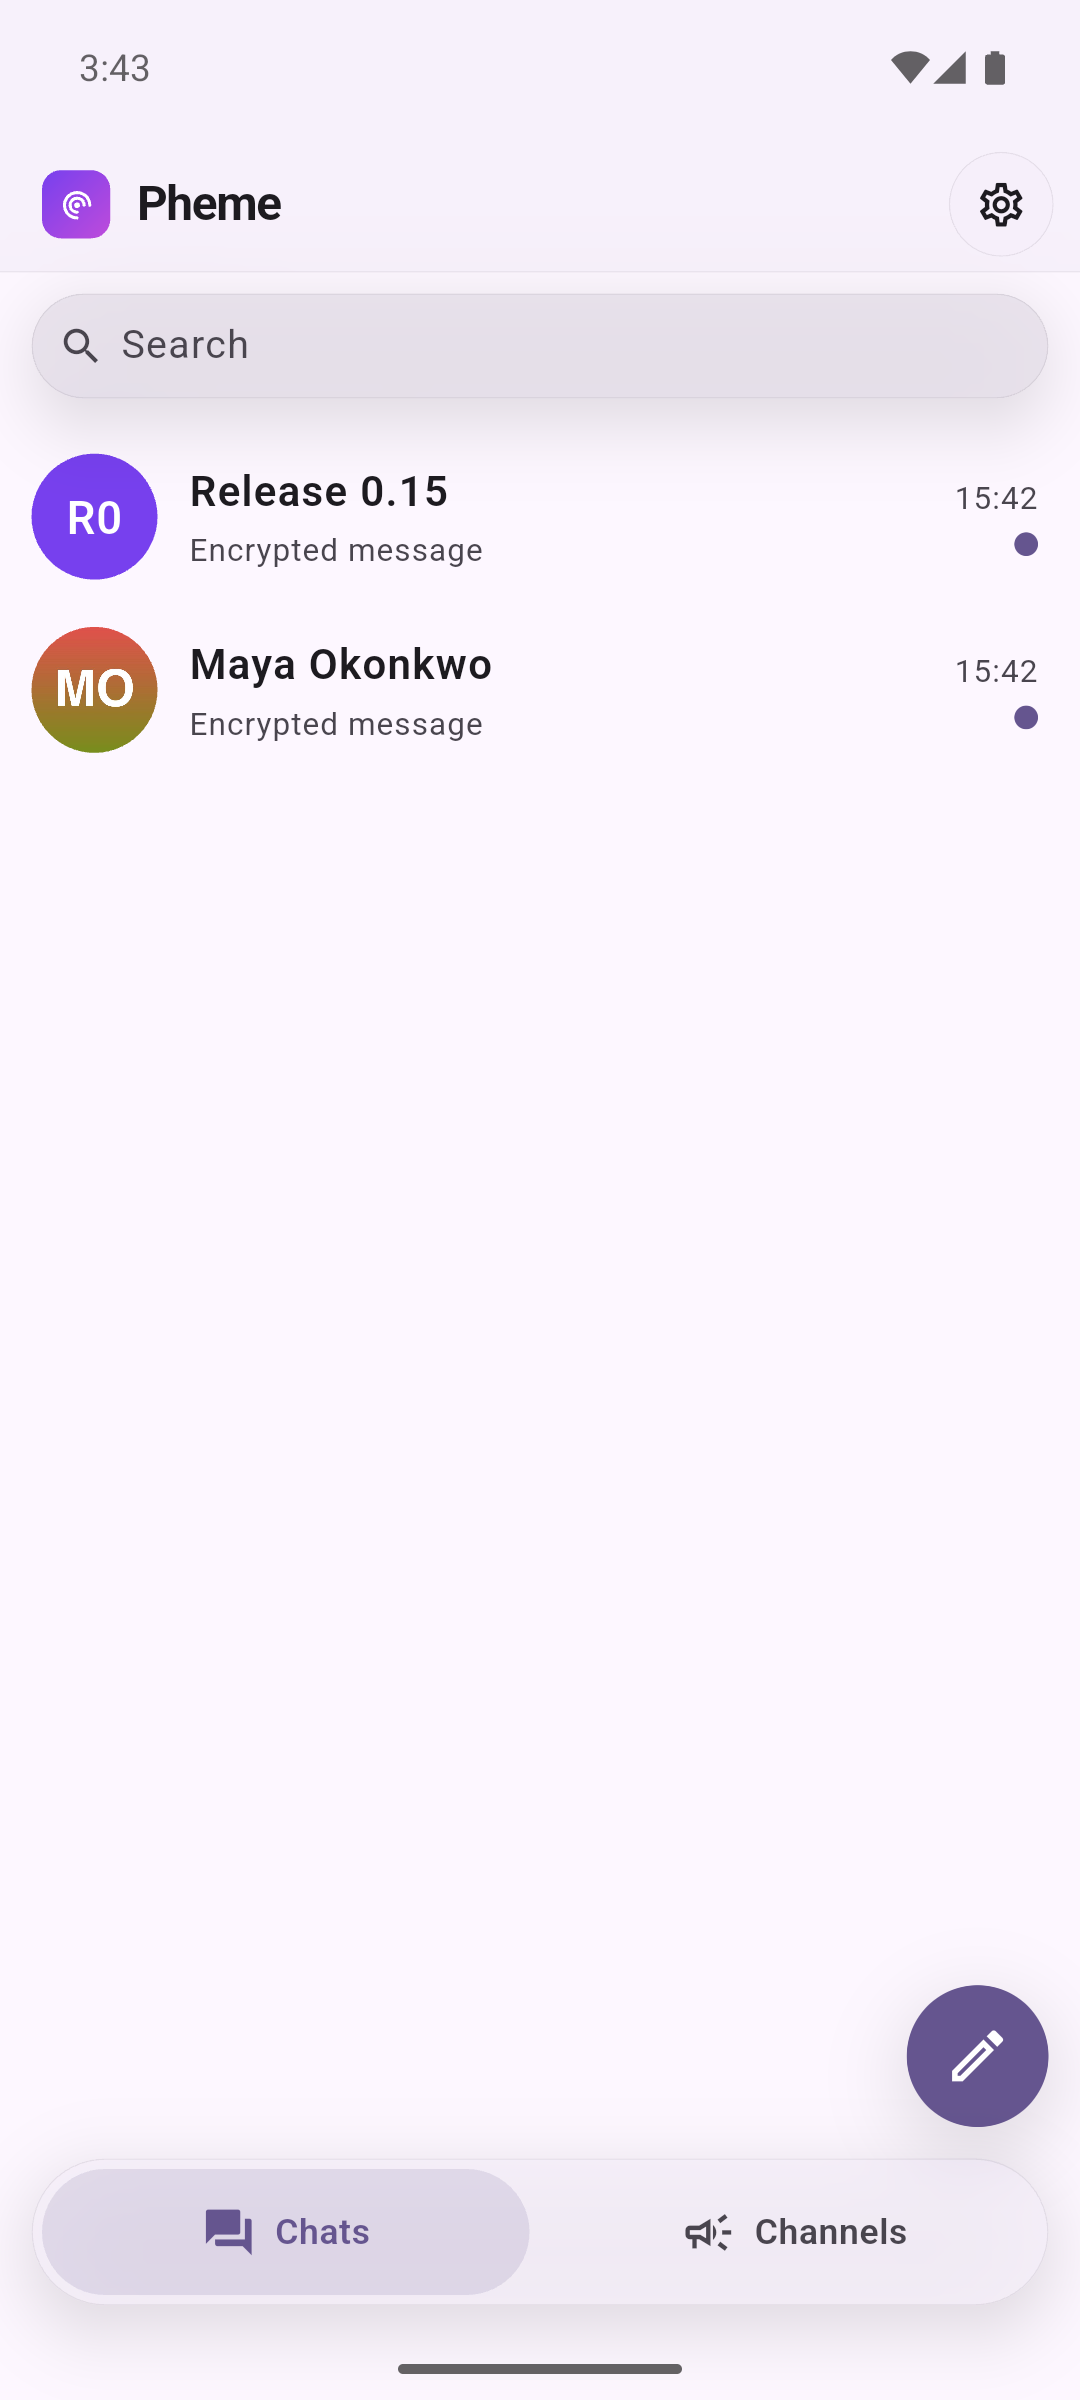
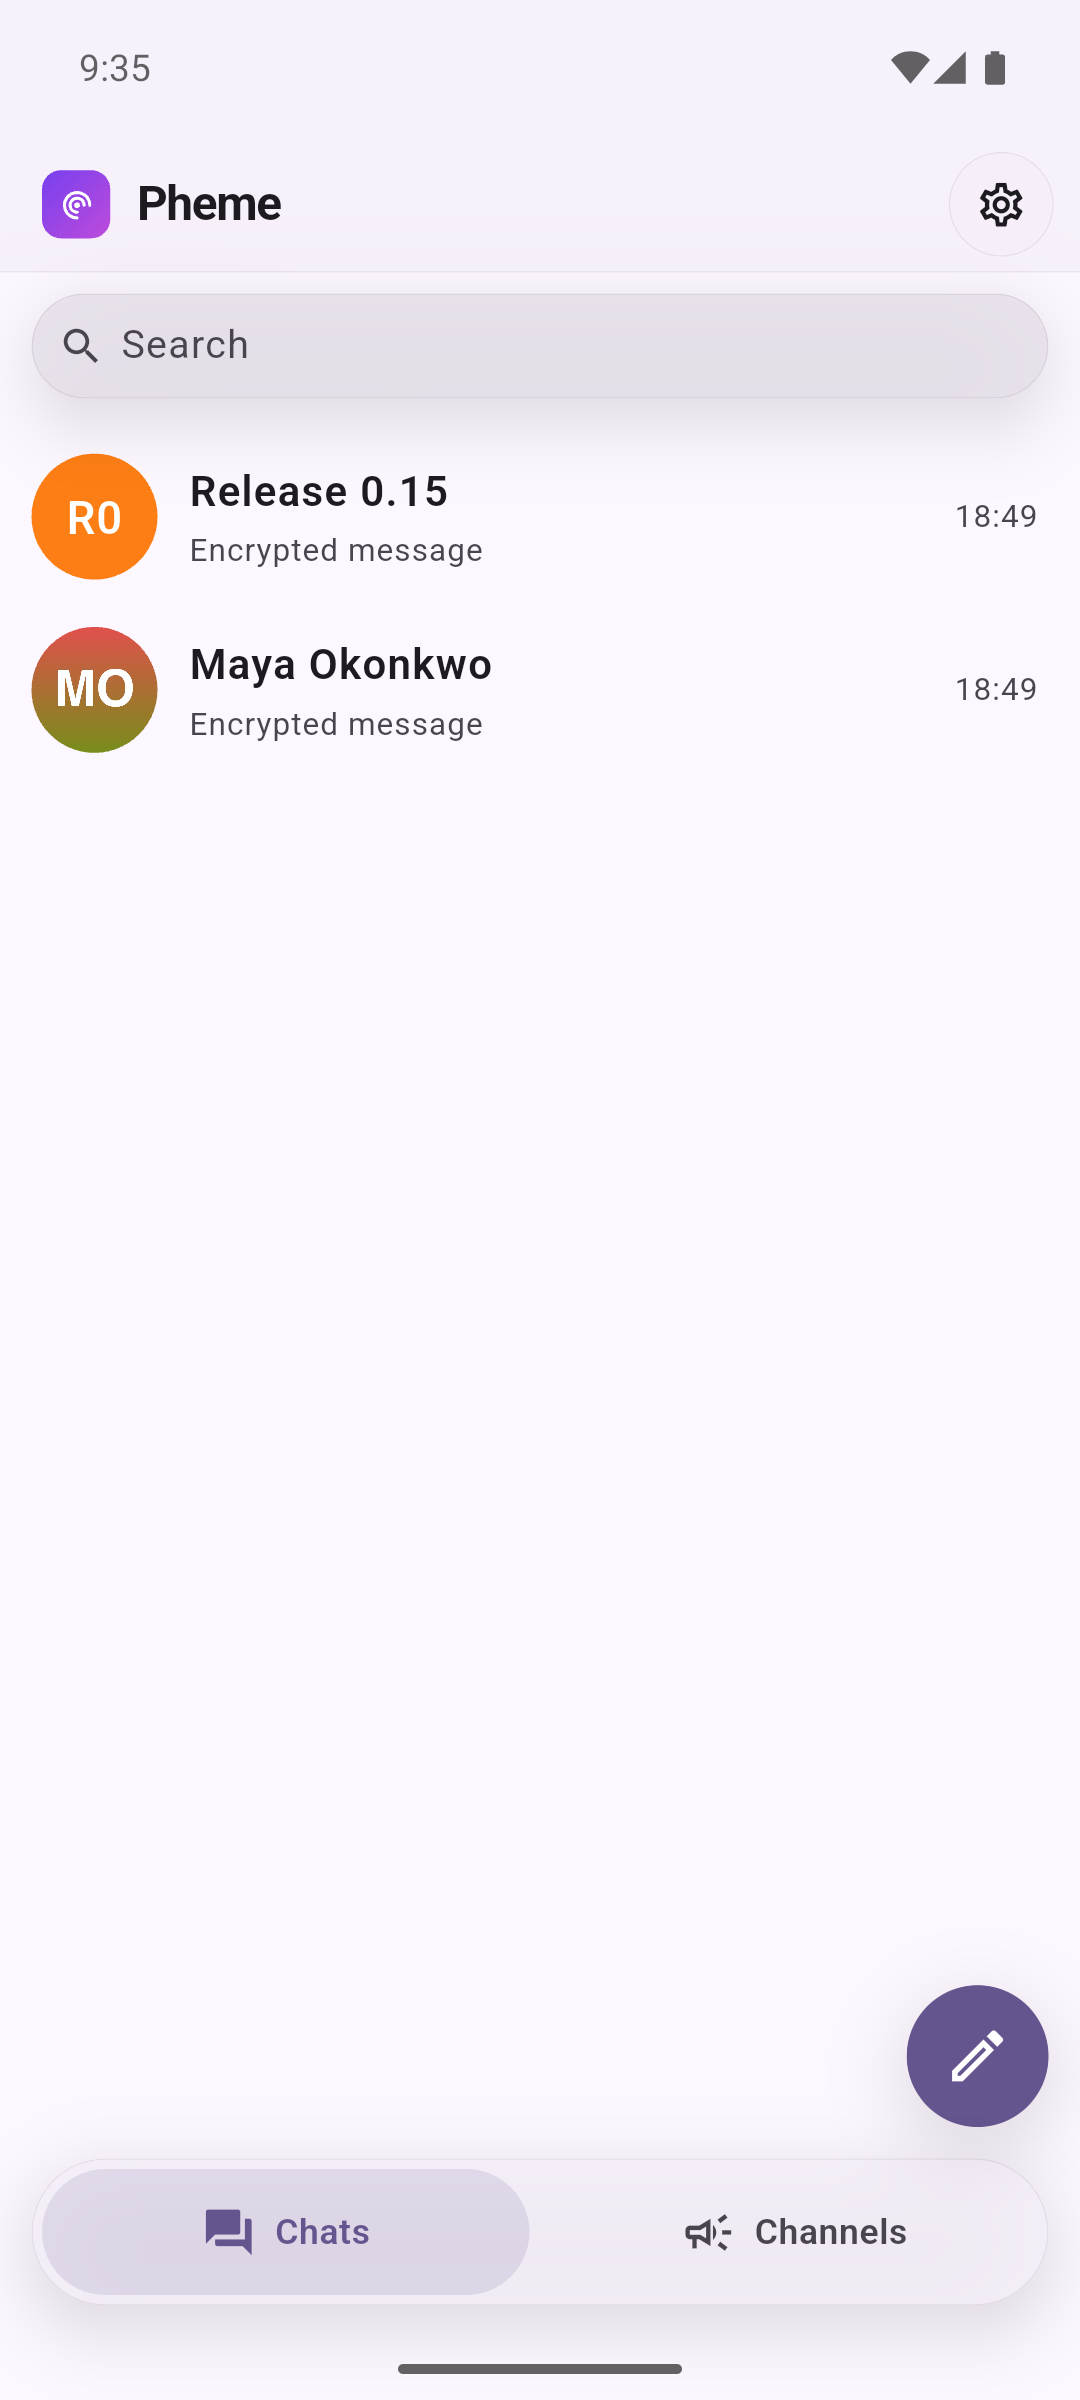
feat(market): Russian screenshots, and the two dialogs that were blocking them
Both Play sets are complete now — chats, channels, a channel and settings, in
English and Russian, four matching frames each.

Three things had to be fixed, and all three were failing silently.

FORCING THE LANGUAGE. Changing the simulator's locale is the wrong lever: it
needs a reboot per language and the app overrides it anyway. The app keeps its
own preference in secure storage under `pheme.locale`, so the capture writes
that before calling app.main() and takes SHOT_LOCALE as a dart-define. One
build, both languages, nothing reboots.

THE RESTORE DIALOG. A fresh device with a backup on the server is offered a
restore, and the dialog sat on top of every Russian frame. Tapping it away was
unreliable. The script now deletes the account's server-side key backup first:
RecoveryGate only prompts when mls.session() raises NeedsRestoreException, which
needs a backup to restore from.

THE NOTIFICATION PROMPT. Granted outright on Android — in a retry loop, because
the grant only takes once flutter drive has installed the package.

Also fixes the privacy manifest reference from the previous commit. It was added
with a path relative to the Runner group, which already has path "Runner", so
the project looked for Runner/Runner/PrivacyInfo.xcprivacy and the iOS build
failed outright. Re-added group-relative.

And teaches tools/shots.sh to notice a stale build. flutter drive does not
always see that the integration_test target changed; when it does not it
[…]

diff --git a/mobile/integration_test/screenshots_test.dart b/mobile/integration_test/screenshots_test.dart
@@ -14,6 +14,7 @@
 // Runs against the seeded instance, so the app it photographs has other
 // people's conversations in it.
 import 'package:flutter/material.dart';
+import 'package:flutter_secure_storage/flutter_secure_storage.dart';
 import 'package:flutter_test/flutter_test.dart';
 import 'package:integration_test/integration_test.dart';
 
@@ -22,6 +23,10 @@ import 'package:pheme_mobile/main.dart' as app;
 const _email = String.fromEnvironment('SHOT_EMAIL', defaultValue: 'priya@pheme.test');
 const _password = String.fromEnvironment('SHOT_PASSWORD', defaultValue: 'orchard-lantern-97');
 const _server = String.fromEnvironment('PHEME_API', defaultValue: 'http://localhost:8099');
+
+/// Which language to photograph the app in: 'en', 'ru', or empty for whatever
+/// the device is set to.
+const _locale = String.fromEnvironment('SHOT_LOCALE');
 
 /// pumpAndSettle gives up on a screen with a perpetual animation, and this app
 /// has several (spinners, the live indicator). Pumping for a fixed spell is the
@@ -40,6 +45,20 @@ Future<void> shot(WidgetTester tester, String name) async {
   await rest(tester, seconds: 6);
 }
 
+/// The first of these labels that is actually on screen.
+///
+/// The driver has to work in both languages: the store package needs an English
+/// set and a Russian one, and the simulator's language decides which strings the
+/// app renders. Matching only the English ones silently skipped every step of
+/// the Russian run.
+Finder anyText(WidgetTester tester, List<String> labels) {
+  for (final l in labels) {
+    final f = find.text(l);
+    if (tester.any(f)) return f;
+  }
+  return find.text(labels.first);
+}
+
 Future<void> tapIfPresent(WidgetTester tester, Finder f, {int settle = 4}) async {
   if (!tester.any(f)) return;
   await tester.tap(f.first, warnIfMissed: false);
@@ -50,6 +69,16 @@ void main() {
   IntegrationTestWidgetsFlutterBinding.ensureInitialized();
 
   testWidgets('drive the app for screenshots', (tester) async {
+    // Set the app's own language preference before it boots, rather than
+    // changing the simulator's language. The app reads this key at startup and
+    // it outranks the device locale, so one build photographs both languages
+    // without rebooting anything.
+    if (_locale.isNotEmpty) {
+      const storage = FlutterSecureStorage();
+      await storage.write(key: 'pheme.locale', value: _locale);
+      debugPrint('SHOT_LOCALE wrote=$_locale readback=${await storage.read(key: 'pheme.locale')}');
+    }
+
     app.main();
     await rest(tester, seconds: 8);
 
@@ -60,7 +89,7 @@ void main() {
     // The app keeps a session, so a second run of this file starts already
     // signed in. Both states are legitimate; only the first has a form to fill.
     final fields = find.byType(EditableText);
-    final signIn = find.text('Sign in');
+    final signIn = anyText(tester, const ['Sign in', 'Войти']);
     if (tester.any(fields) && tester.any(signIn)) {
       await shot(tester, '01-login');
 
@@ -80,10 +109,20 @@ void main() {
     // A device with no key store is offered a restore. This one is genuinely new,
     // so it starts fresh — and because it does that BEFORE the conversations are
     // seeded, it is a member of them from the first epoch and can read them.
-    final startFresh = find.text('Start fresh on this device');
-    if (tester.any(startFresh)) {
-      await tester.tap(startFresh.last, warnIfMissed: false);
-      await rest(tester, seconds: 8);
+    // The dialog should not appear at all: tools/shots.sh deletes the user's
+    // server-side key backup first, and RecoveryGate only prompts when
+    // mls.session() throws NeedsRestoreException, which needs a backup to
+    // restore from. This stays as a fallback, because a dialog nobody dismissed
+    // is a capture full of screenshots of a dialog.
+    const skipLabels = ['Start fresh on this device', 'Начать заново на этом устройстве'];
+    for (var attempt = 0; attempt < 15; attempt++) {
+      final skip = anyText(tester, skipLabels);
+      if (tester.any(skip)) {
+        await tester.tap(skip.last, warnIfMissed: false);
+        await rest(tester, seconds: 8);
+        break;
+      }
+      await rest(tester, seconds: 2);
     }
     // Hold here while the host seeds the conversations.
     //
@@ -96,12 +135,31 @@ void main() {
     debugPrint('SHOT:SEEDNOW');
     await rest(tester, seconds: 75);
 
+    // A device with no backup is asked to write its recovery code down before it
+    // will get out of the way. Tick the box, press the button.
+    for (var attempt = 0; attempt < 12; attempt++) {
+      final confirm = anyText(tester,
+          const ['I have saved my recovery code', 'Я сохранил код восстановления']);
+      if (!tester.any(confirm)) {
+        await rest(tester, seconds: 2);
+        continue;
+      }
+      await tester.tap(confirm.last, warnIfMissed: false);
+      await rest(tester, seconds: 2);
+      final done = anyText(tester, const ['Done', 'Готово']);
+      if (tester.any(done)) {
+        await tester.tap(done.last, warnIfMissed: false);
+      }
+      await rest(tester, seconds: 4);
+      break;
+    }
+
     await shot(tester, '02-chats');
 
     // --- the chat list --------------------------------------------------------
     // The app may open on either tab, so ask for Chats explicitly rather than
     // photographing whichever one it happened to restore.
-    final chatsTab = find.text('Chats');
+    final chatsTab = anyText(tester, const ['Chats', 'Чаты']);
     if (tester.any(chatsTab)) {
       await tester.tap(chatsTab.last, warnIfMissed: false);
       await rest(tester, seconds: 5);
@@ -125,7 +183,7 @@ void main() {
     }
 
     // --- channels -------------------------------------------------------------
-    final channelsTab = find.text('Channels');
+    final channelsTab = anyText(tester, const ['Channels', 'Каналы']);
     if (tester.any(channelsTab)) {
       await tester.tap(channelsTab.last, warnIfMissed: false);
       await rest(tester, seconds: 5);

diff --git a/mobile/market/screenshots.md b/mobile/market/screenshots.md
@@ -6,26 +6,48 @@
 |---|---|
 | App Store iPhone 6.9" (1320×2868) EN | 3 frames — chats, channels, a channel |
 | App Store iPhone 6.5" (1284×2778) EN | the same three, resampled |
-| App Store iPhone 6.9"/6.5" RU | **missing** — see below |
+| App Store iPhone RU | **missing** — one manual tap away, see below |
 | App Store iPad 13" (2064×2752) | **missing** — no capture run yet |
-| Play phone EN | 3 frames — chats, a channel, settings |
-| Play phone RU | **missing** |
+| Play phone EN | 4 frames — chats, channels, a channel, settings |
+| Play phone RU | 4 frames, the same screens |
 | Play tablet | **missing** (optional unless you declare tablet support) |
 
 Three frames per slot is above the App Store's minimum of one and below the
 maximum of ten. More would sell better; these are honest.
 
-## Why the Russian set is missing
+## Forcing the language
 
-The capture drives the real app, and on a Russian device the app signs in, then
-shows the "Восстановить чаты" dialog — a fresh install has no key store, so it
-offers to restore from a backup. The driver taps "Начать заново на этом
-устройстве" to dismiss it. In English that works. In Russian the tap does not
-land, and every frame in the run photographed the dialog.
+Do not change the simulator's or emulator's language. The app keeps its own
+preference in secure storage under `pheme.locale`, and that outranks the device
+locale — so the capture writes it before calling `app.main()`:
 
-It is not a translation problem: the driver looks for both languages and finds
-the button. Something about the tap misses it on that build. Worth ten minutes
-with a debugger rather than another blind re-run.
+```dart
+await const FlutterSecureStorage().write(key: 'pheme.locale', value: 'ru');
+```
+
+Pass `SHOT_LOCALE=ru` (or `en`) to `tools/shots.sh` and it threads through as a
+dart-define. One build photographs both languages, and nothing has to reboot.
+
+## Two dialogs that get in the way
+
+**"Restore your chats."** A fresh device with a backup waiting on the server is
+offered a restore, and the dialog sits on top of every screenshot. Dismissing it
+by tapping is unreliable. `tools/shots.sh` deletes the account's server-side key
+backup before the run instead: `RecoveryGate` only prompts when `mls.session()`
+raises `NeedsRestoreException`, which needs a backup to restore from, so with
+none there is no dialog to dismiss.
+
+**Notification permission.** On Android the script grants
+`POST_NOTIFICATIONS` outright — in a retry loop, because the grant only works
+once `flutter drive` has installed the package.
+
+On iOS there is no equivalent. `simctl` has no tap command, `simctl privacy`
+does not cover notifications, and AppleScript clicking needs an Accessibility
+permission the runner does not have. The alert appears on every fresh install,
+and `flutter drive` uninstalls the app when it finishes, so it comes back every
+run. **This is why the App Store Russian set is missing.** The fix is one manual
+tap: run a capture, press "Allow" on the simulator once, and every later run on
+that install is clean. The English set was captured that way.
 
 ## Why there is no login screenshot
 
@@ -74,12 +96,3 @@ xcrun simctl create "Pheme iPad 13" com.apple.CoreSimulator.SimDeviceType.iPad-P
 iPhone 17 Pro Max renders at 1320×2868, which is an accepted 6.9" size with no
 resampling. The 6.5" frames here are resampled from it, which Apple accepts.
 
-## Switching a simulator to Russian
-
-```bash
-xcrun simctl shutdown <udid>
-PREFS=~/Library/Developer/CoreSimulator/Devices/<udid>/data/Library/Preferences/.GlobalPreferences.plist
-plutil -replace AppleLanguages -json '["ru-RU","en-US"]' "$PREFS"
-plutil -replace AppleLocale -string "ru_RU" "$PREFS"
-xcrun simctl boot <udid>
-```
